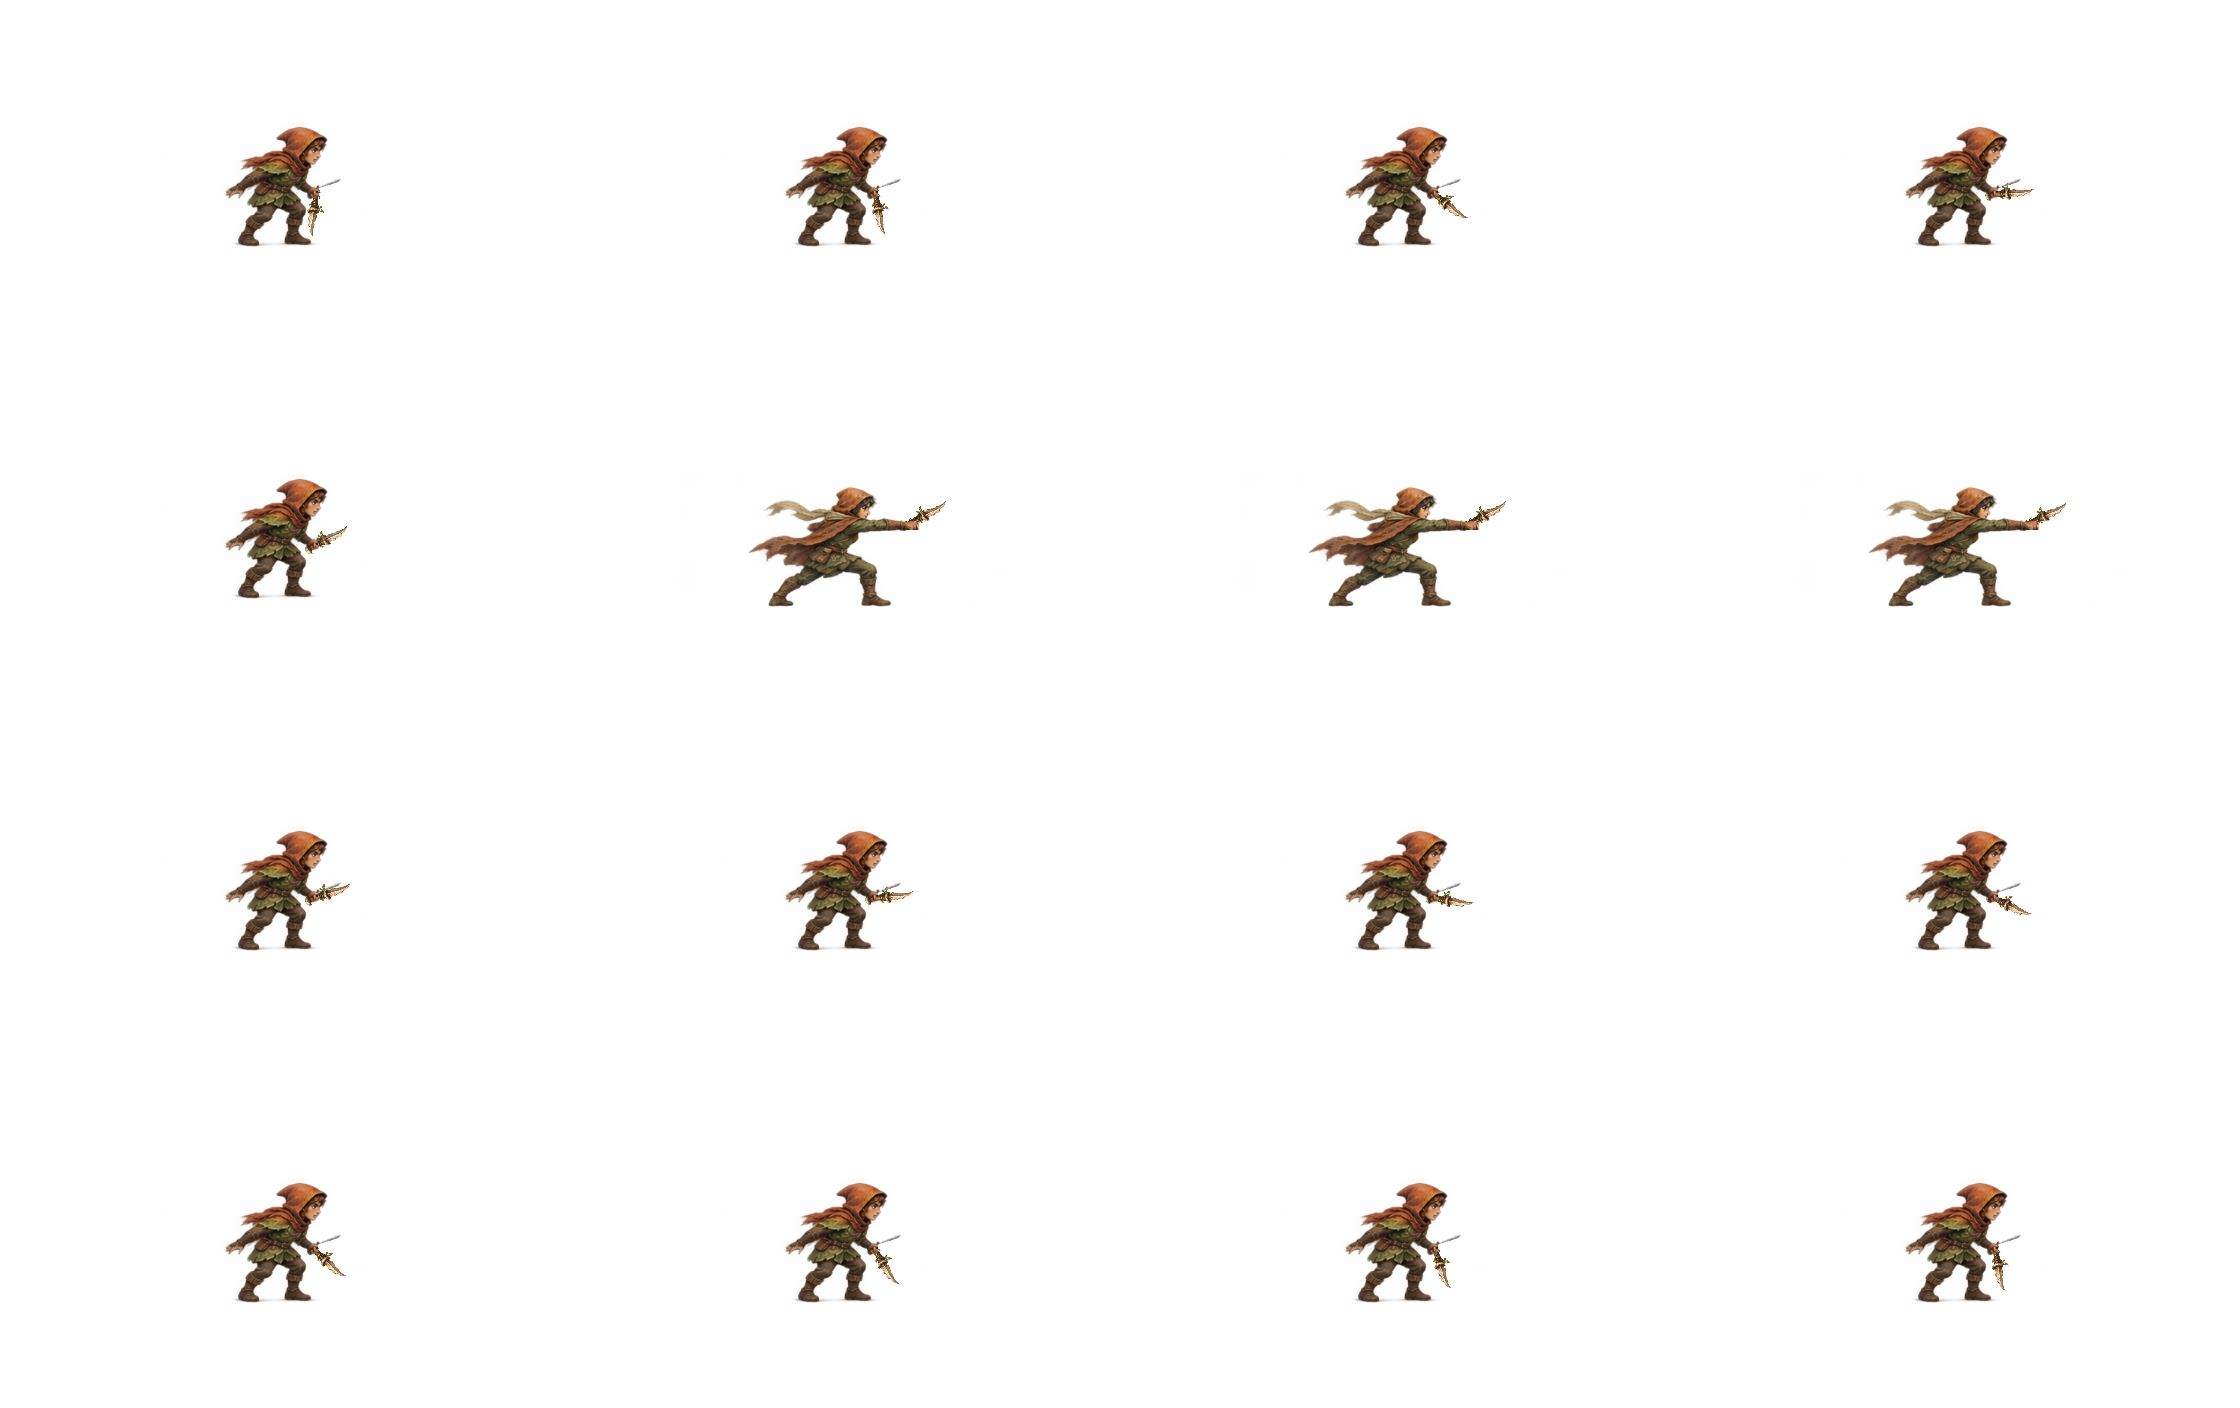
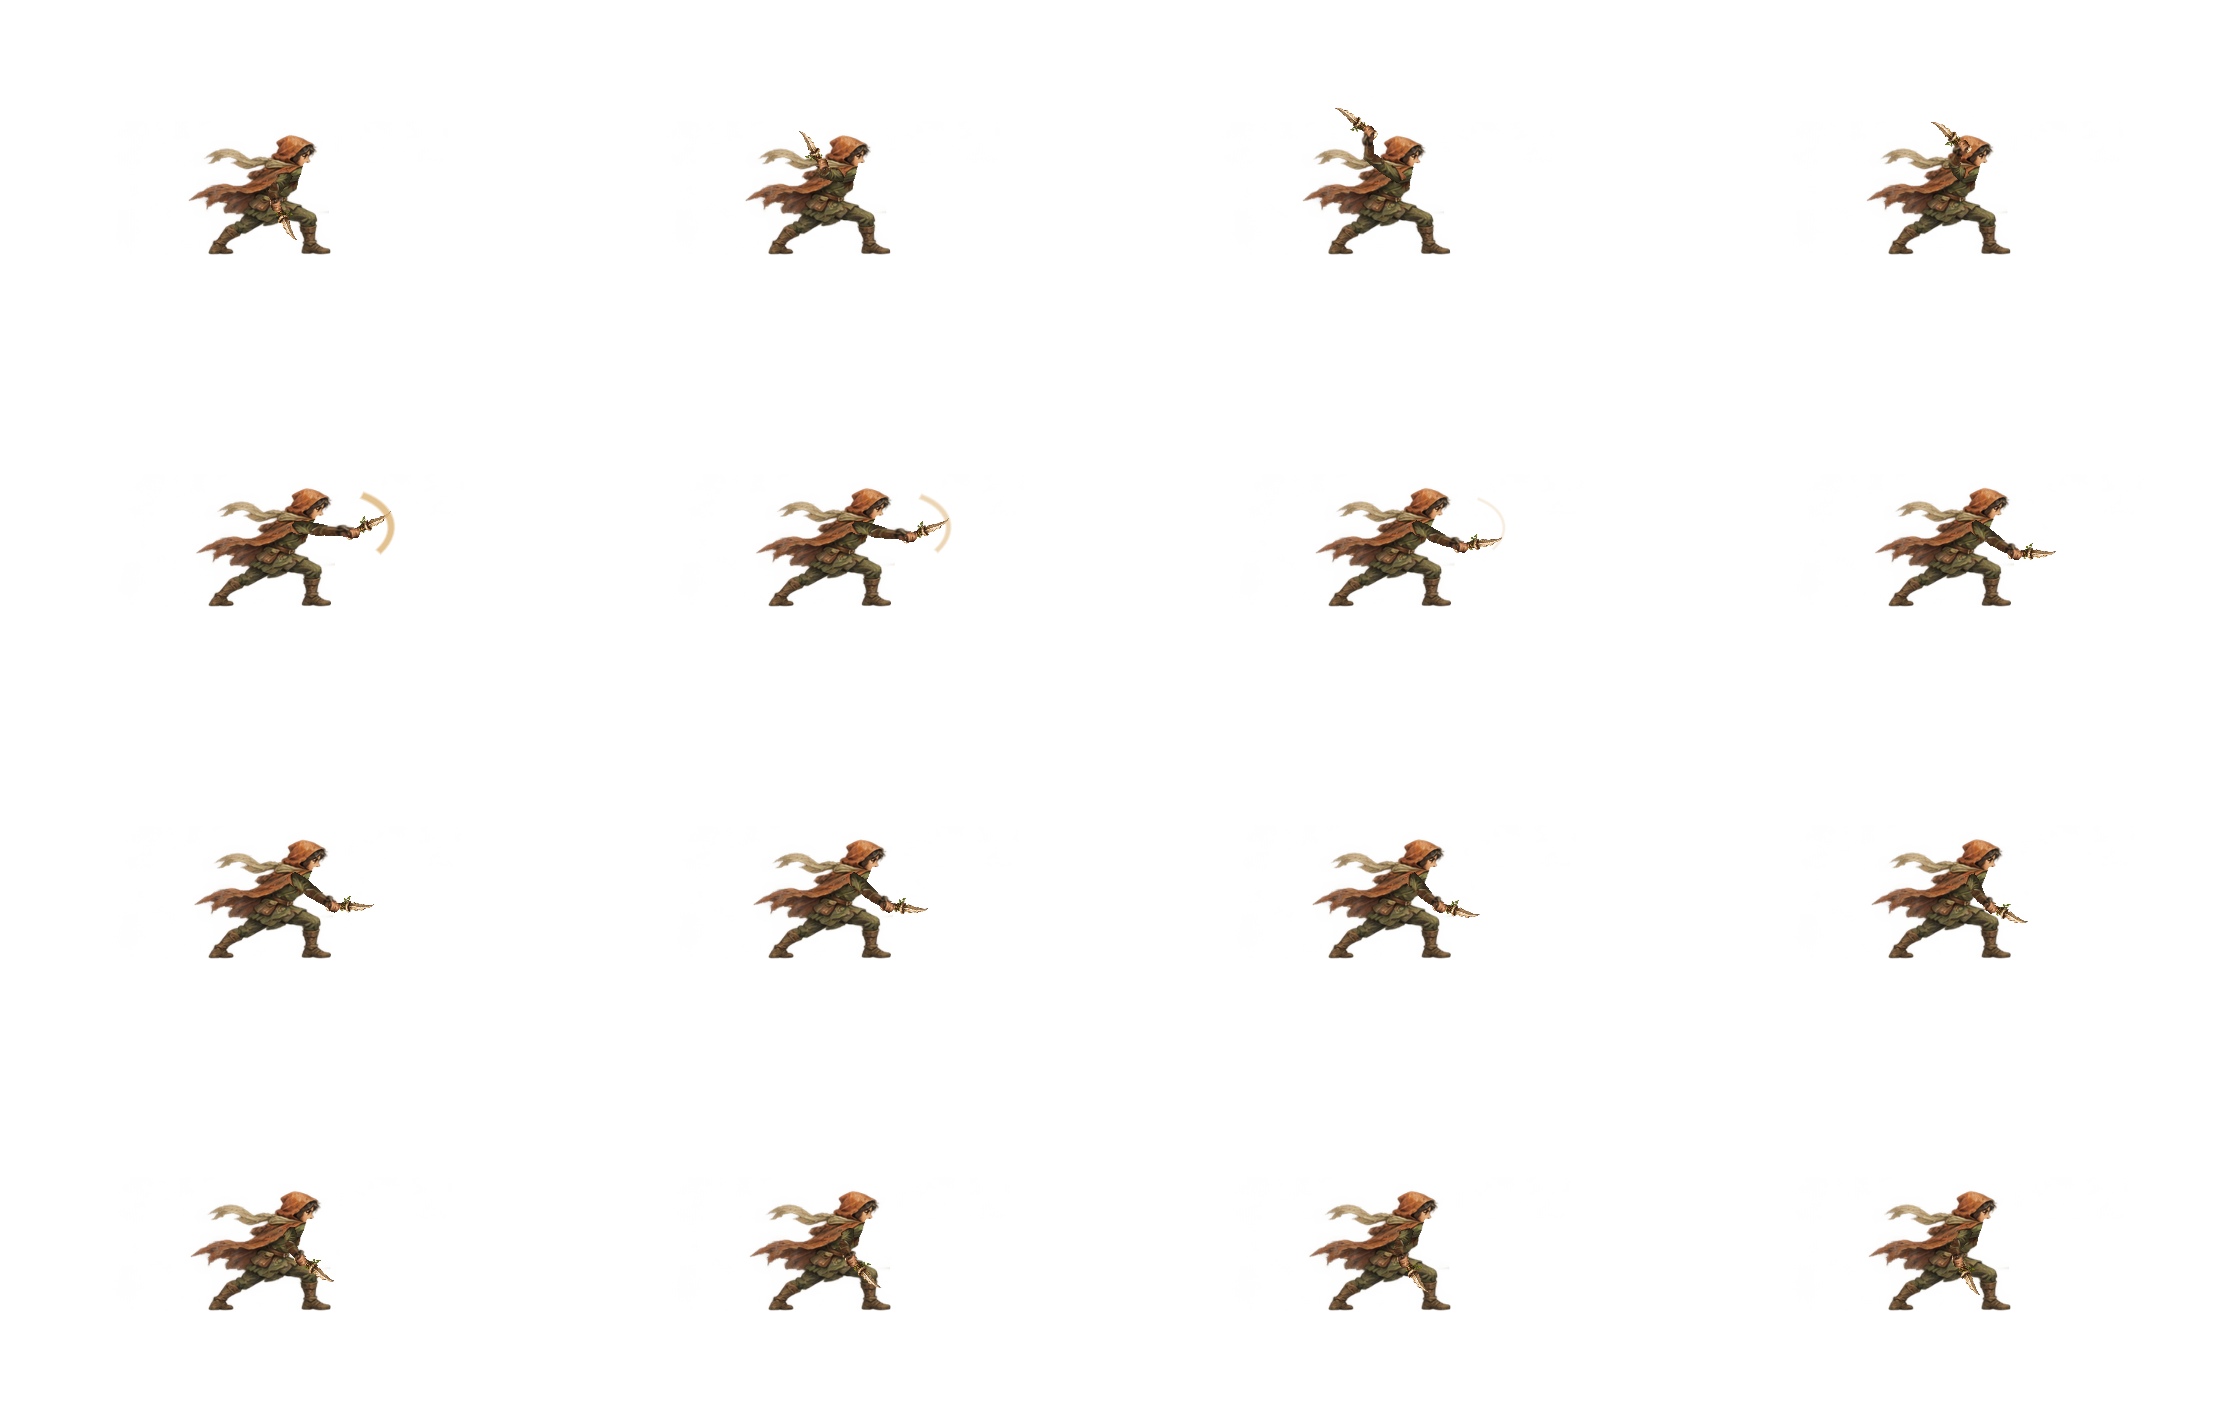
Animate right-handed hunter melee windups and swings

diff --git a/assets/characters/hunter/README.md b/assets/characters/hunter/README.md
@@ -6,7 +6,7 @@
 | --- | --- |
 | `locomotion.png` | 待機、走路、跑步、後退 |
 | `traversal.png` | 跳躍、滑翔、落地、攀爬 |
-| `reaction.png` | 蹲姿、受傷、第 3 列為基本短刀與獵弓的四幀攻擊 |
+| `reaction.png` | 蹲姿、受傷、第 3 列為獵弓的四幀攻擊 |
 
 其他武器有獨立的 `attack.png`，從左到右、由上到下播放十六幀。需要獨立蹲姿的武器另有 `attack_crouch.png`。蛛牙短刃的 `attack_2`、`attack_3` 對應連擊後兩段，也各有蹲姿版本。未使用的格保留透明。格尺寸、腳底錨點與取幀規則定義在 `scripts/character/hunter_sprites.gd`。
 
@@ -17,3 +17,5 @@ godot --path . --script tools/bake_hunter_sprites.gd
 godot --headless --path . --import
 godot --headless --path . --script tests/character/hunter_sprite_library_smoke.gd
 ```
+
+只重烘焙指定武器的攻擊圖集時，可執行 `godot --path . --script tools/bake_hunter_sprites.gd -- --attack-only hunter_knife`。
